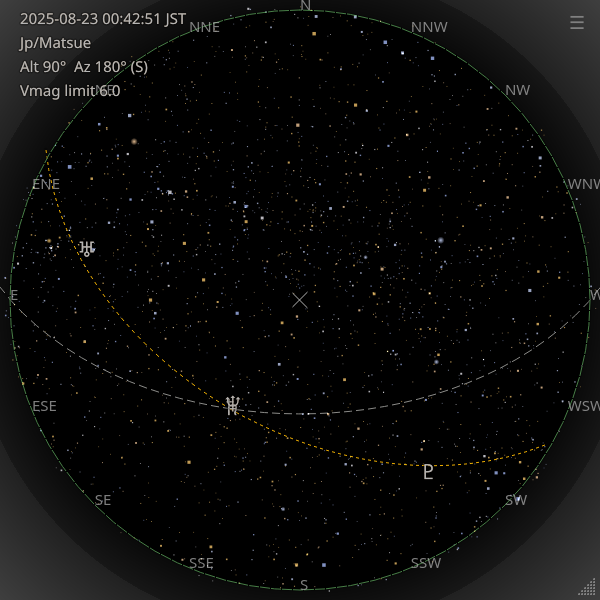
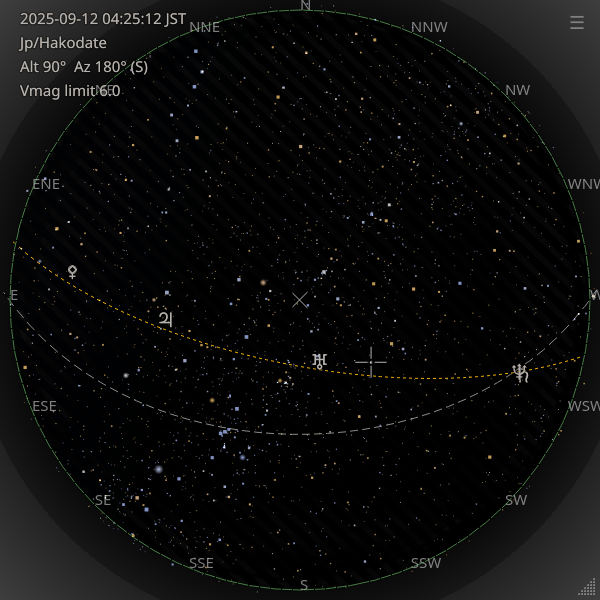
docs: update README (ja/en) by adding new options and cloud rendering notes

diff --git a/README.md b/README.md
@@ -8,13 +8,11 @@ The name emphasizes the *zenith*—the point directly overhead—conveying the e
 **Features:**
 
 - Real-time rendering of bright stars, planets, the celestial equator, and the ecliptic.
-- Location specified by city name (based on GeoNames).
+- Location specified by city name (based on GeoNames), or directly by latitude/longitude.
+- Optional `-A altitude` to shift the view toward the horizon.
+- Simulated sky colors and cloud overlays for context.
 
   ![](docs/images/screenshot1.png)
-
-- Optional `-A altitude` to shift the view toward the horizon.
-- Simulated sky colors overlaid to give context to the scene (since version 0.8.2).
-
   ![](docs/images/screenshot4.png)
 
 ## Installation (Recommended: `pipx`)
@@ -25,7 +23,8 @@ It is intended to be installed using [`pipx`](https://pypa.github.io/pipx/).
 pipx install git+https://github.com/tos-kamiya/zstarview.git
 ```
 
-> Note (X11 on Ubuntu/Debian): On X11 sessions, Qt's xcb platform plugin may require `libxcb-cursor0` at runtime. Install it with: `sudo apt install libxcb-cursor0`.
+> Note (X11 on Ubuntu/Debian): On X11 sessions, Qt's xcb platform plugin may require `libxcb-cursor0` at runtime. Install it with:
+> `sudo apt install libxcb-cursor0`.
 
 ## Usage
 
@@ -35,43 +34,31 @@ zstarview [options] [city]
 
 ### Argument
 
-| Argument | Description                                                                                                                          | Default                            |
-| :------- | :----------------------------------------------------------------------------------------------------------------------------------- | :--------------------------------- |
-| `city`   | Specify the city name to display. If omitted, the city from the **last run** will be used. On the first run, it defaults to `Tokyo`. | Last run (or `Tokyo` on first run) |
+| Argument | Description                                                                                                                                                                                                                                                           | Default                           |
+| :------- | :-------------------------------------------------------------------------------------------------------------------------------------------------------------------------------------------------------------------------------------------------------------------- | :-------------------------------- |
+| `city`   | Specify the city name to display, **or** directly specify latitude/longitude in the form `"<lat>;<lon>"`. Examples: `35.68;139.76`, `N35.68;E139.76`, `-35.68;139.76`. If omitted, the last run city/coordinates will be used (defaults to `Tokyo` on the first run). | Last run city/coords (or `Tokyo`) |
 
 ### Options
 
-### Options
+| Option                                      | Description                                                                 | Default |
+| :------------------------------------------ | :-------------------------------------------------------------------------- | :------ |
+| `-h`, `--help`                              | Show this help message and exit.                                            |         |
+| `-Z`, `--view-center-az VIEW_CENTER_AZ`     | Viewing azimuth (degrees or compass points).                                | `180`   |
+| `-A`, `--view-center-alt VIEW_CENTER_ALT`   | Viewing altitude angle (90=zenith, 0=horizon).                              | `90`    |
+| `-c`, `--cloud-opacity CLOUD_OPACITY`       | Opacity of cloud rendering (0.0–1.0). Use 0.0 to disable. \*2                | `0.2`   |
+| `--sky-opacity SKY_OPACITY`                 | Opacity of the simulated sky-color disc (0.0–1.0). Use 0.0 to disable.      | `0.2`   |
+| `-m`, `--enlarge-moon`                      | Show the moon in 5x size.                                                   |         |
+| `-s`, `--star-base-radius STAR_BASE_RADIUS` | Base size of stars.                                                         | `8.0`   |
+| `-V`, `--vmag-limit V_MAG_LIMIT`            | Maximum visual magnitude of stars to display.                               | `6.0`   |
+| `-i`, `--sky-update-interval SECONDS`       | Interval for updating stars/sky-color disc in seconds.                      | `180`   |
+| `-H`, `--hours HOURS`                       | Number of hours to add to the current time. \*1                              | `0`     |
+| `-D`, `--days DAYS`                         | Number of days to add to the current time. \*1                               | `0`     |
+| `--datetime "YYYY-MM-DD HH[:MM[:SS]] [TZ]"` | Specify an absolute date/time. Time may be given as `HH`, `HH:MM`, or `HH:MM:SS`. If no TZ is specified, UTC is assumed. \*1 |         |
 
-| Option                                      | Description                                             | Default |
-| :------------------------------------------ | :------------------------------------------------------ | :------ |
-| `-h`, `--help`                              | Show this help message and exit.                        |         |
-| `-H`, `--hours HOURS`                       | Number of hours to add to the current time.             | `0`     |
-| `-D`, `--days DAYS`                         | Number of days to add to the current time.              | `0`     |
-| `--datetime "YYYY-MM-DD HH:MM:SS [TZ]"`     | Specify an absolute date/time (UTC if no TZ given).     |         |
-| `-m`, `--enlarge-moon`                      | Show the moon in 5x size.                               |         |
-| `-s`, `--star-base-radius STAR_BASE_RADIUS` | Base size of stars.                                     | `8.0`   |
-| `-Z`, `--view-center-az VIEW_CENTER_AZ`     | Viewing azimuth (degrees or compass points).            | `180`   |
-| `-A`, `--view-center-alt VIEW_CENTER_ALT`   | Viewing altitude angle (90=zenith, 0=horizon).          | `90`    |
-| `-V`, `--vmag-threshold V_MAG_THRESHOLD`    | Maximum visual magnitude of stars to display.           | `6.0`   |
-| `--sky-opacity SKY_OPACITY`                 | Opacity of the simulated sky-color disc (0.0–1.0). Use 0.0 to disable sky-color rendering. | `0.2` |
+\*1 When using non-realtime sky options (`--hours`, `--days`, `--datetime`), cloud rendering will not be shown.  
 
-
-**About the datetime option**
-
-Use `--datetime "YYYY-MM-DD HH:MM:SS [TZ]"` to specify an absolute date and time.  
-If no timezone (TZ) is specified, UTC is assumed.
-
-You can specify the timezone as:
-- A common abbreviation (JST, UTC, GMT, KST, HKT, AWST, ACST, AEST, NZST, NZDT, MSK, EAT)
-- A full IANA timezone name (e.g., `Asia/Tokyo`, `Europe/Moscow`)
-- A UTC offset (e.g., `UTC+9`, `UTC-07:30`)
-
-Example:
-
-```bash
-zstarview --datetime "2025-08-17 21:00:00 JST" Tokyo
-```
+\*2 Cloud rendering uses infrared data from meteorological satellites (**Himawari** and **NOAA GOES** series), retrieved from their public S3 buckets.  
+   A reasonably fast network connection is required. If you are offline or your connection is slow, it is recommended to disable cloud rendering with `-c 0`.
 
 **About the view center options**
 
@@ -83,19 +70,64 @@ In this view, the bottom of the screen is south, the left side is east, and the 
 For example, setting `-Z 90` (facing east) and `-A 5` (altitude 5°, i.e., looking 5° above the horizon)
 will produce a roughly semicircular sky view.
 
-→ This will capture the eastern sky showing the Summer Triangle (Vega, Altair, Deneb) [<img width="40px" src="docs/images/screenshot2t.png" />](docs/images/screenshot2.png)
+→ Eastern sky showing the Summer Triangle (Vega, Altair, Deneb) [<img width="40px" src="docs/images/screenshot2t.png" />](docs/images/screenshot2.png)
 
 Azimuth can be given in degrees or compass points (case-insensitive).
 Examples: `-Z E`, `-Z ne`, `-Z SSW` (202.5°).
 (Compass mapping: 0=N, 90=E, 180=S, 270=W; accepts N, NNE, NE, ENE, E, ESE, SE, SSE, S, SSW, SW, WSW, W, WNW, NW, NNW.)
 
-**About magnitude threshold**
+**About magnitude limit**
 
 Use `-V magnitude` to limit the displayed stars to those brighter than the given magnitude.
-The default is `-V 6.0`. For example, specifying 9.0 will display about 83k stars.
+The default is `-V 6.0`. For example, specifying 9.0 will display about 83,000 stars.
 Note that higher values will increase rendering time.
 
 → Example: display up to magnitude 9.0 [<img width="40px" src="docs/images/screenshot3t.png" />](docs/images/screenshot3.png)
+
+**About the datetime option**
+
+Use `--datetime "YYYY-MM-DD HH[:MM[:SS]] [TZ]"` to specify an absolute date and time.
+The time part may be just hours, hours\:minutes, or hours\:minutes\:seconds.
+If no timezone (TZ) is specified, UTC is assumed.
+
+Supported timezone formats:
+
+* A common abbreviation (JST, UTC, GMT, KST, HKT, AWST, ACST, AEST, NZST, NZDT, MSK, EAT)
+* A full IANA timezone name (e.g., `Asia/Tokyo`, `Europe/Moscow`)
+* A UTC offset (e.g., `UTC+9`, `UTC-07:30`)
+
+Examples:
+
+```bash
+zstarview --datetime "2025-08-17 21:00:00 JST" Tokyo
+zstarview --datetime "2025-09-12 9" Tokyo         # 9 o'clock
+zstarview --datetime "2025-09-12 09:00" Tokyo     # 9:00
+zstarview --datetime "2025-09-12 9:0:0 JST" Tokyo # 9:00:00 JST
+```
+
+---
+
+**Latitude/Longitude direct input**
+
+Instead of a city name, you can directly specify coordinates as `"<lat>;<lon>"`.
+
+* Format: `latitude;longitude` (semicolon separated)
+* Examples:
+
+  * `35.68;139.76`
+  * `N35.68;E139.76`
+  * `-35.68;139.76`
+  * `S35.68;W139.76`
+* Latitude must be between -90 and 90, longitude between -180 and 180.
+* Direction letters `N/S/E/W` can be used (negative sign takes precedence if both given).
+* When starting with coordinates, **the timezone defaults to UTC** (you can override with `--datetime` and a timezone).
+
+Example:
+
+```bash
+zstarview "35.68;139.76"
+zstarview "N35.68;E139.76" --datetime "2025-09-12 21 JST"
+```
 
 ### Key Operations
 
@@ -107,7 +139,7 @@ Note that higher values will increase rendering time.
 
 ## Generating a `.desktop` launcher (GNOME only)
 
-On GNOME-based environments (including Ubuntu Dock and DockToPanel),  
+On GNOME-based environments (including Ubuntu Dock and DockToPanel),
 a `.desktop` file is required for the correct icon to appear in the taskbar.
 
 This application includes a helper command to generate it:
@@ -132,18 +164,19 @@ This software is provided under the [MIT](LICENSE.txt) License.
 
 However, the **included data** is redistributed according to their respective licenses.
 
-| File                                         | Content                                          | Source                                                                   | License                                                                                                                             |
-| -------------------------------------------- | ------------------------------------------------ | ------------------------------------------------------------------------ | ----------------------------------------------------------------------------------------------------------------------------------- |
-| `data/cities1000.txt`, `admin1CodesASCII.txt`      | List of cities with a population of 1000 or more | [GeoNames](https://download.geonames.org/export/dump/)                   | [CC BY 4.0](https://creativecommons.org/licenses/by/4.0/)                                                                           |
-| `data/stars/hip_main.dat`                               | Hipparcos and Tycho Catalogues (ESA 1997)        | [CDS Strasbourg](https://cdsarc.cds.unistra.fr/ftp/I/239/)               | [ODbL](https://www.data.gouv.fr/licences) or [CC BY-NC 3.0 IGO](https://creativecommons.org/licenses/by-nc/3.0/igo/) Non-commercial |
-| `data/stars/IAU-Catalog-of-Star-Names.csv`         | IAU Working Group on Star Names (WGSN) catalog of approved star names | [exopla.net](https://exopla.net/star-names/modern-iau-star-names/)       | [CC BY 4.0](https://creativecommons.org/licenses/by/4.0/)                                                                           |
-|  `data/Noto_Sans/*`, `data/Noto_Sans_Symbols/*` | Font for displaying text / planetary symbols            | [Google Fonts](https://fonts.google.com/) | [SIL Open Font License 1.1](https://openfontlicense.org)                                                                            |
+| File                                           | Content                                          | Source                                                             | License                                                                                                                             |
+| ---------------------------------------------- | ------------------------------------------------ | ------------------------------------------------------------------ | ----------------------------------------------------------------------------------------------------------------------------------- |
+| `data/cities1000.txt`, `admin1CodesASCII.txt`  | List of cities with a population of 1000 or more | [GeoNames](https://download.geonames.org/export/dump/)             | [CC BY 4.0](https://creativecommons.org/licenses/by/4.0/)                                                                           |
+| `data/stars/hip_main.dat`                      | Hipparcos and Tycho Catalogues (ESA 1997)        | [CDS Strasbourg](https://cdsarc.cds.unistra.fr/ftp/I/239/)         | [ODbL](https://www.data.gouv.fr/licences) or [CC BY-NC 3.0 IGO](https://creativecommons.org/licenses/by-nc/3.0/igo/) Non-commercial |
+| `data/stars/IAU-Catalog-of-Star-Names.csv`     | IAU WGSN catalog of approved star names          | [exopla.net](https://exopla.net/star-names/modern-iau-star-names/) | [CC BY 4.0](https://creativecommons.org/licenses/by/4.0/)                                                                           |
+| `data/Noto_Sans/*`, `data/Noto_Sans_Symbols/*` | Font for displaying text / planetary symbols     | [Google Fonts](https://fonts.google.com/)                          | [SIL Open Font License 1.1](https://openfontlicense.org)                                                                            |
 
 ## Credits
 
 * Astronomical data provided by CDS Strasbourg and the ESA Hipparcos Mission.
 * City data based on GeoNames.
 * Star proper names provided by the IAU Working Group on Star Names (via [exopla.net](https://exopla.net/star-names/modern-iau-star-names/)).
+* Cloud data are based on infrared observations from the **Himawari** satellite (provided by JMA) and the **NOAA GOES** series (provided by NOAA/NESDIS), retrieved from their public S3 buckets.
 * Fonts provided by the Google Noto Project.
 * The window title "Zenith Star View" was suggested by ChatGPT.
 * Specification discussions, code generation, and debugging were greatly assisted by Gemini and ChatGPT.
@@ -151,4 +184,3 @@ However, the **included data** is redistributed according to their respective li
 ## Appendix
 
 → [Lunar eclipses in 2025, Solar eclipses 2026-2028](docs/appendix-eclipses.md)
-

diff --git a/README_ja-JP.md b/README_ja-JP.md
@@ -13,7 +13,7 @@
   ![](docs/images/screenshot1.png)
 
 - オプション `-A altitude` により、表示中心を地平線方向に変更可能
-- 星空の状況をわかりやすくするため、空の色を軽く重ねて表示（バージョン 0.8.2 以降）
+- 星空の状況をわかりやすくするため、空の色や雲を重ねて表示。
 
   ![](docs/images/screenshot4.png)
 
@@ -38,42 +38,30 @@ zstarview [options] [city]
 
 | 引数     | 説明                                                          | デフォルト              |
 | :----- | :---------------------------------------------------------- | :----------------- |
-| `city` | 表示する都市名を指定します。省略時は前回起動時の都市を使用します。初回起動時に省略すると `Tokyo` になります。 | 前回の都市（初回は `Tokyo`） |
-
-### オプション
+| `city` | 表示する都市名を指定します。**または** `"<lat>;<lon>"` 形式で緯度経度（十進度）を直接指定できます（例: `35.68;139.76`, `N35.68;E139.76`, `-35.68;139.76`）。省略時は前回起動時の都市 **または直前の座標** を使用します。初回起動時に省略すると `Tokyo` になります。 | 前回の都市/座標（初回は `Tokyo`） |
 
 ### オプション
 
 | オプション                                       | 説明                                                            | デフォルト |
 | :------------------------------------------ | :-------------------------------------------------------------- | :------- |
 | `-h`, `--help`                              | ヘルプメッセージを表示して終了します。                                 |          |
-| `-H`, `--hours HOURS`                       | 現在時刻に加算する時間数を指定します。                                 | `0`      |
-| `-D`, `--days DAYS`                         | 現在時刻に加算する日数を指定します。                                  | `0`      |
-| `--datetime "YYYY-MM-DD HH:MM:SS [TZ]"`     | 絶対的な日時を指定します（TZを省略した場合はUTC）。                     |          |
-| `-m`, `--enlarge-moon`                      | 月を5倍に拡大して表示します。                                      |          |
-| `-s`, `--star-base-radius STAR_BASE_RADIUS` | 星の基本サイズを指定します。                                       | `8.0`    |
 | `-Z`, `--view-center-az VIEW_CENTER_AZ`     | 表示中心の方位角を指定します。                                     | `180`    |
 | `-A`, `--view-center-alt VIEW_CENTER_ALT`   | 表示中心の高度角を指定します（90=天頂、0=地平線）。                       | `90`     |
-| `-V`, `--vmag-threshold V_MAG_THRESHOLD`    | 表示する恒星の等級（明るさ）の上限を指定します。                          | `6.0`    |
+| `-c`, `--cloud-opacity CLOUD_OPACITY`                 | 雲の不透明度を指定します（0.0〜1.0）。0.0で描画を無効化します。※2 | `0.2`   |
 | `--sky-opacity SKY_OPACITY`                 | 空の色ディスクの不透明度を指定します（0.0〜1.0）。0.0で描画を無効化します。 | `0.2`   |
+| `-m`, `--enlarge-moon`                      | 月を5倍に拡大して表示します。                                      |          |
+| `-s`, `--star-base-radius STAR_BASE_RADIUS` | 星の基本サイズを指定します。                                       | `8.0`    |
+| `-V`, `--vmag-limit V_MAG_LIMIT`            | 表示する恒星の等級（明るさ）の上限を指定します。                          | `6.0`    |
+| `-i`, `--sky-update-interval SKY_UPDATE_INTERVAL` | 星空を更新する時間間隔（秒） を指定します。 | `180` |
+| `-H`, `--hours HOURS`                       | 現在時刻に加算する時間数を指定します。※1                                 | `0`      |
+| `-D`, `--days DAYS`                         | 現在時刻に加算する日数を指定します。※1                                  | `0`      |
+| `--datetime "YYYY-MM-DD HH[:MM[:SS]] [TZ]"` | 絶対的な日時を指定します。時刻は「時」「時:分」「時:分:秒」のいずれかで指定できます。タイムゾーン（TZ）を省略した場合はUTC。※1 |          |
 
+※1 これらのオプションを指定してリアルタイムではない星空を表示した場合には、雲は描かれません。
 
-**日時指定オプションについて**
-
-`--datetime "YYYY-MM-DD HH:MM:SS [TZ]"` で絶対的な日時を指定できます。  
-タイムゾーン（TZ）を省略した場合は UTC として扱われます。
-
-タイムゾーンは以下のいずれかの形式で指定できます：
-
-- よく使われる略称（JST, UTC, GMT, KST, HKT, AWST, ACST, AEST, NZST, NZDT, MSK, EAT）
-- IANA タイムゾーン名（例: `Asia/Tokyo`, `Europe/Moscow`）
-- UTCオフセット（例: `UTC+9`, `UTC-07:30`）
-
-例:
-
-```bash
-zstarview --datetime "2025-08-17 21:00:00 JST" Tokyo
-````
+※2 雲の描画は気象衛星（Himawari, GOES）の赤外線データを S3 バケットから取得して行います。
+そのため **ある程度高速なネットワーク接続が前提** です。オフライン環境や回線が遅い場合には、  
+`-c 0` を指定して雲描画を無効化することを推奨します。
 
 **表示中心オプションについて**
 
@@ -96,6 +84,48 @@ zstarview --datetime "2025-08-17 21:00:00 JST" Tokyo
 この値を大きくすると処理が重くなる点に注意してください。
 
 → 9.0等級まで表示 [<img width="40px" src="docs/images/screenshot3t.png" />](docs/images/screenshot3.png)
+
+**日時指定オプションについて**
+
+`--datetime "YYYY-MM-DD HH[:MM[:SS]] [TZ]"` で絶対的な日時を指定できます。  
+時刻部分は「時」だけ、「時:分」、「時:分:秒」のいずれも使用可能です。  
+タイムゾーン（TZ）を省略した場合は UTC として扱われます。
+
+タイムゾーンは以下のいずれかの形式で指定できます：
+
+- よく使われる略称（JST, UTC, GMT, KST, HKT, AWST, ACST, AEST, NZST, NZDT, MSK, EAT）
+- IANA タイムゾーン名（例: `Asia/Tokyo`, `Europe/Moscow`）
+- UTCオフセット（例: `UTC+9`, `UTC-07:30`）
+
+例:
+
+```bash
+zstarview --datetime "2025-08-17 21:00:00 JST" Tokyo
+zstarview --datetime "2025-09-12 9" Tokyo         # 9時ちょうど
+zstarview --datetime "2025-09-12 09:00" Tokyo     # 9時0分
+zstarview --datetime "2025-09-12 9:0:0 JST" Tokyo # JSTの9時
+```
+
+**緯度経度の直接指定**
+
+都市名の代わりに、`"<lat>;<lon>"` 形式で緯度経度（十進度）を指定できます。
+
+- フォーマット: `緯度;経度`（セミコロン区切り）
+- 許容例:
+  - `35.68;139.76`
+  - `N35.68;E139.76`
+  - `-35.68;139.76`
+  - `S35.68;W139.76`
+- 緯度は `-90〜90`、経度は `-180〜180` の範囲でバリデーションされます。
+- 方向記号 `N/S/E/W` を付けた場合は符号として解釈します（数値にマイナスが明示されている場合はその符号を優先）。
+- 座標で起動した場合、**タイムゾーンはデフォルトで UTC** として扱われます（`--datetime` にタイムゾーンを明示すれば上書き可能）。
+
+例:
+
+```bash
+zstarview "35.68;139.76"
+zstarview "N35.68;E139.76" --datetime "2025-09-12 21 JST"
+```
 
 ### キー操作
 
@@ -143,6 +173,7 @@ zstarview-make-desktop-file --write
 * 天文データを提供していただいている CDS Strasbourg および ESA Hipparcos Mission に感謝します。
 * 都市データは GeoNames に基づいています。
 * 恒星の固有名は IAU 恒星名作業部会 (WGSN) による承認済みリスト（[exopla.net](https://exopla.net/star-names/modern-iau-star-names/) 経由）を使用しています。
+* 雲データは気象衛星 **Himawari**（提供: JMA）および **NOAA GOES** シリーズ（提供: NOAA/NESDIS）による赤外線観測データを、それぞれの S3 公開バケットから取得して利用しています。
 * フォントは Google Noto Project を利用しています。
 * ウィンドウタイトル「Zenith Star View」は ChatGPT の提案に由来します。
 * Gemini および ChatGPT に、仕様の相談、コード生成、デバッグなど、多くの助力をいただきました。
